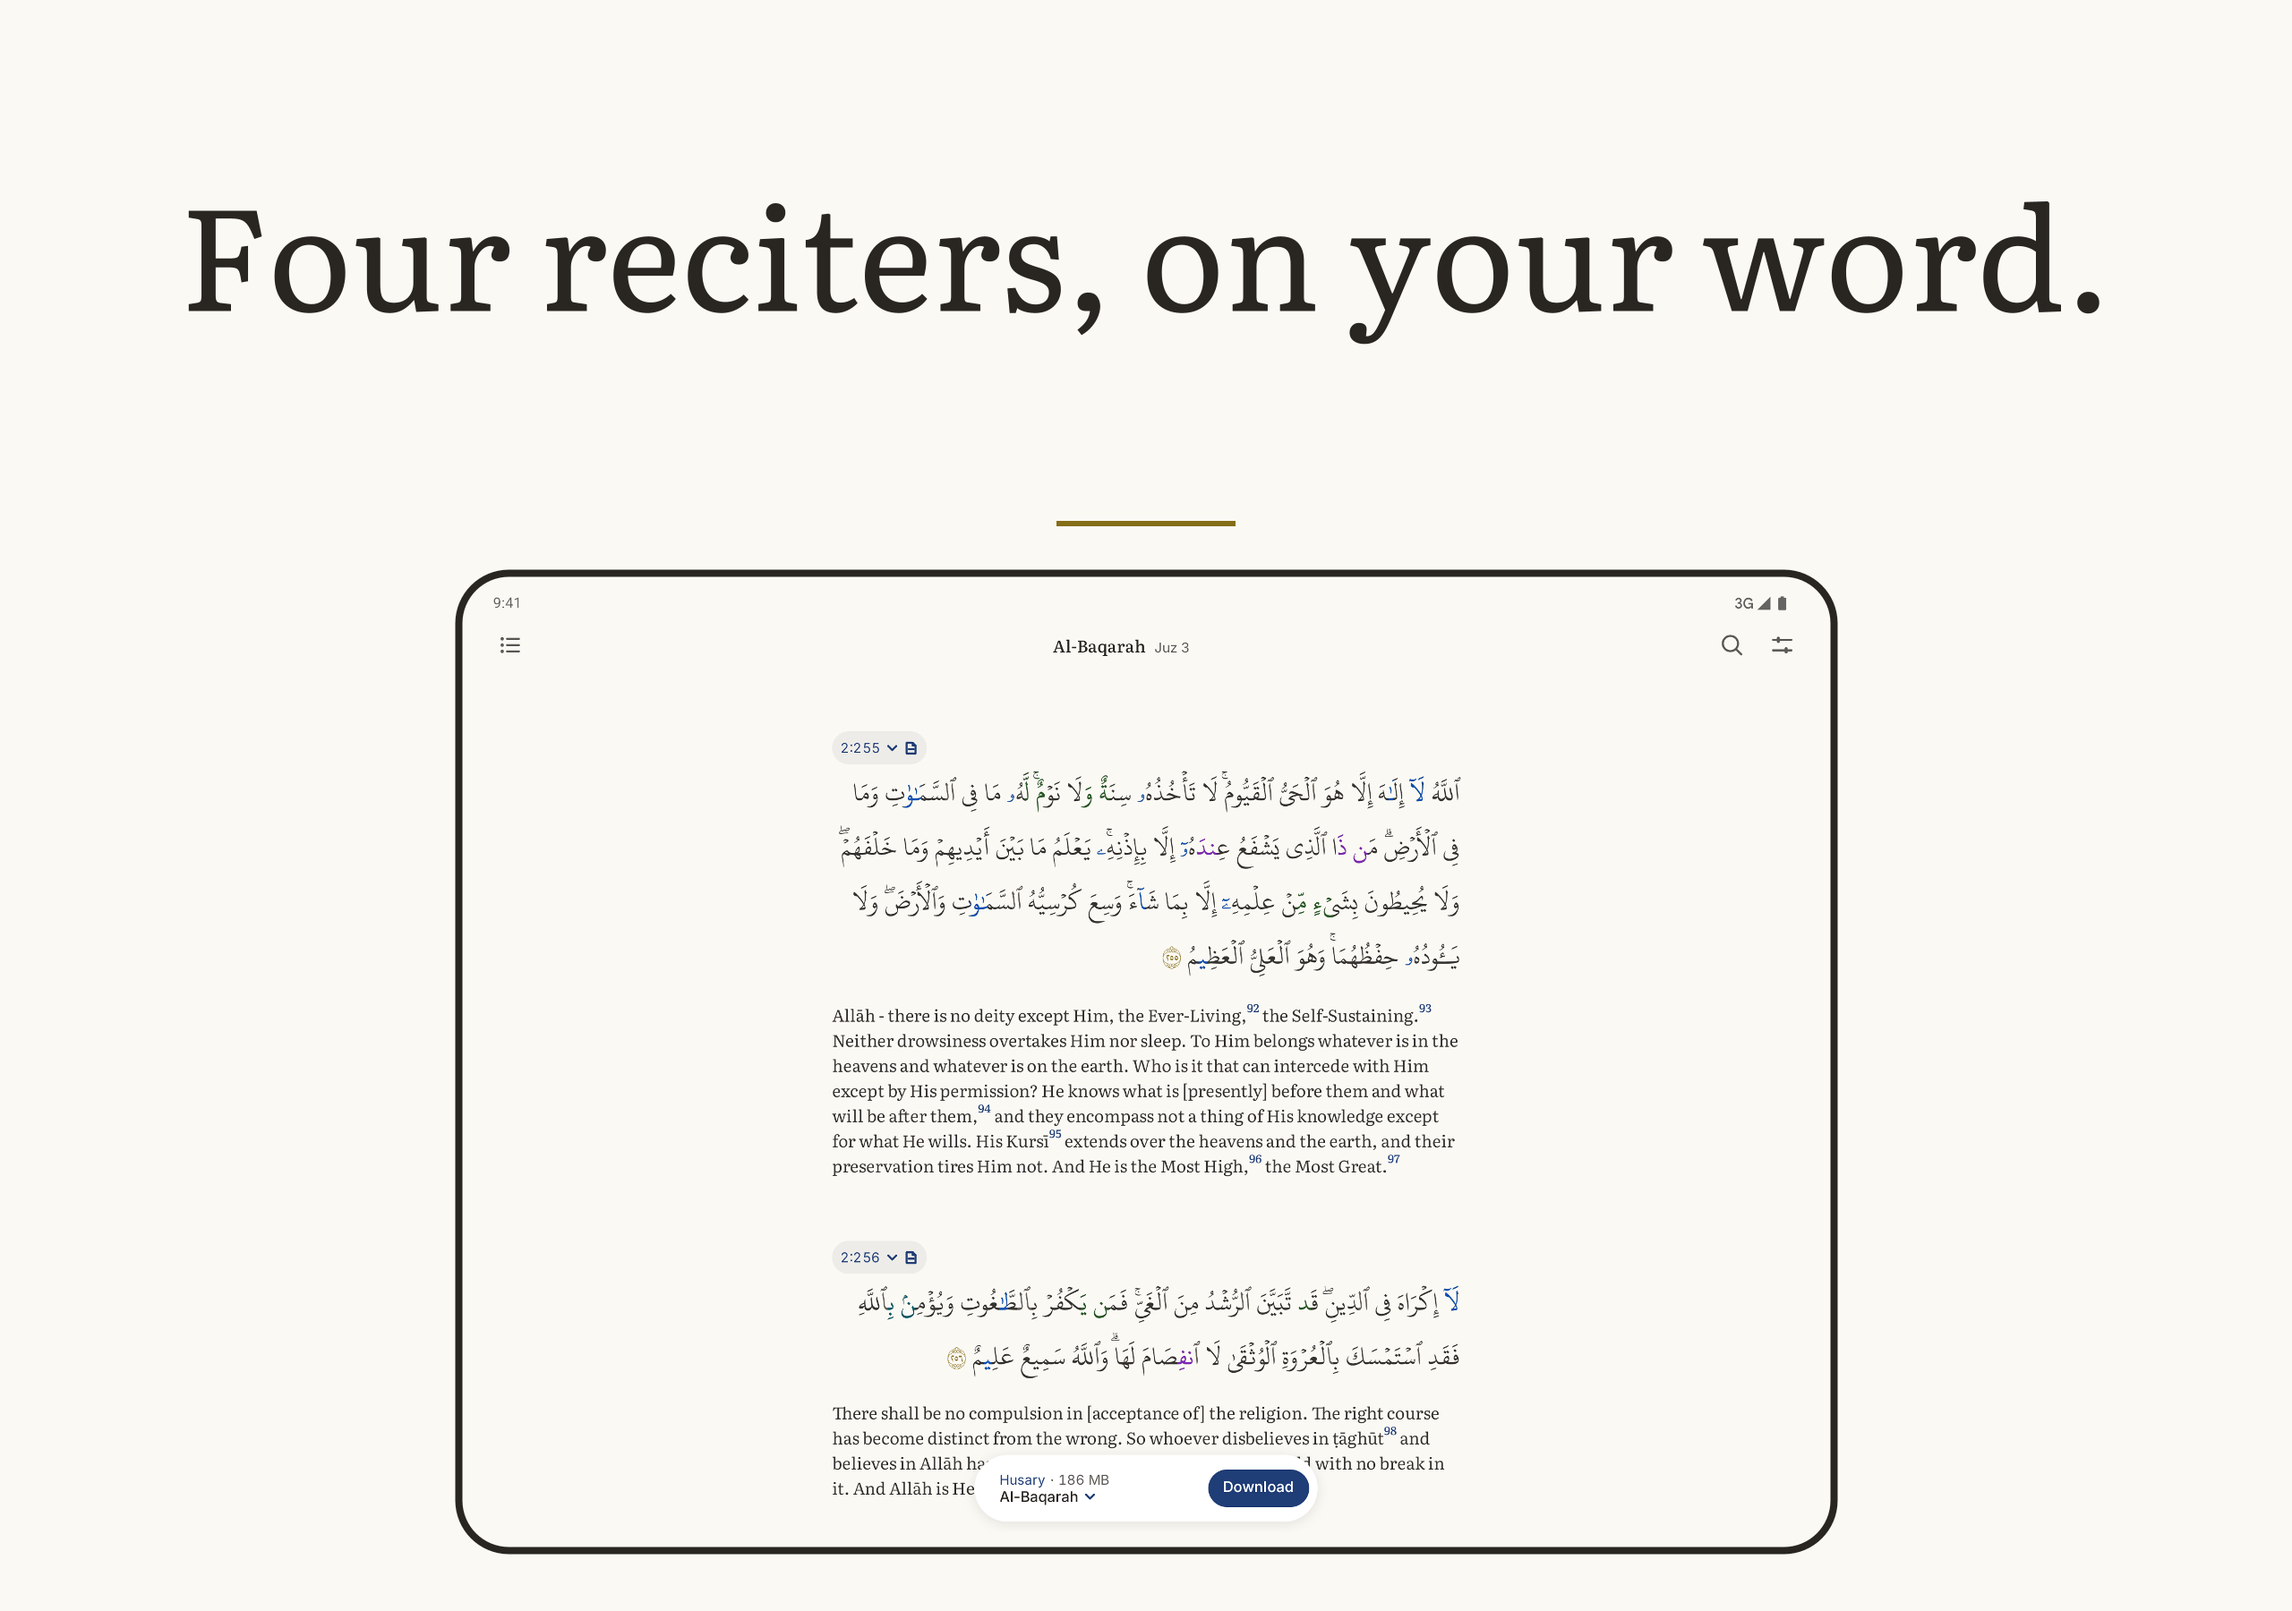
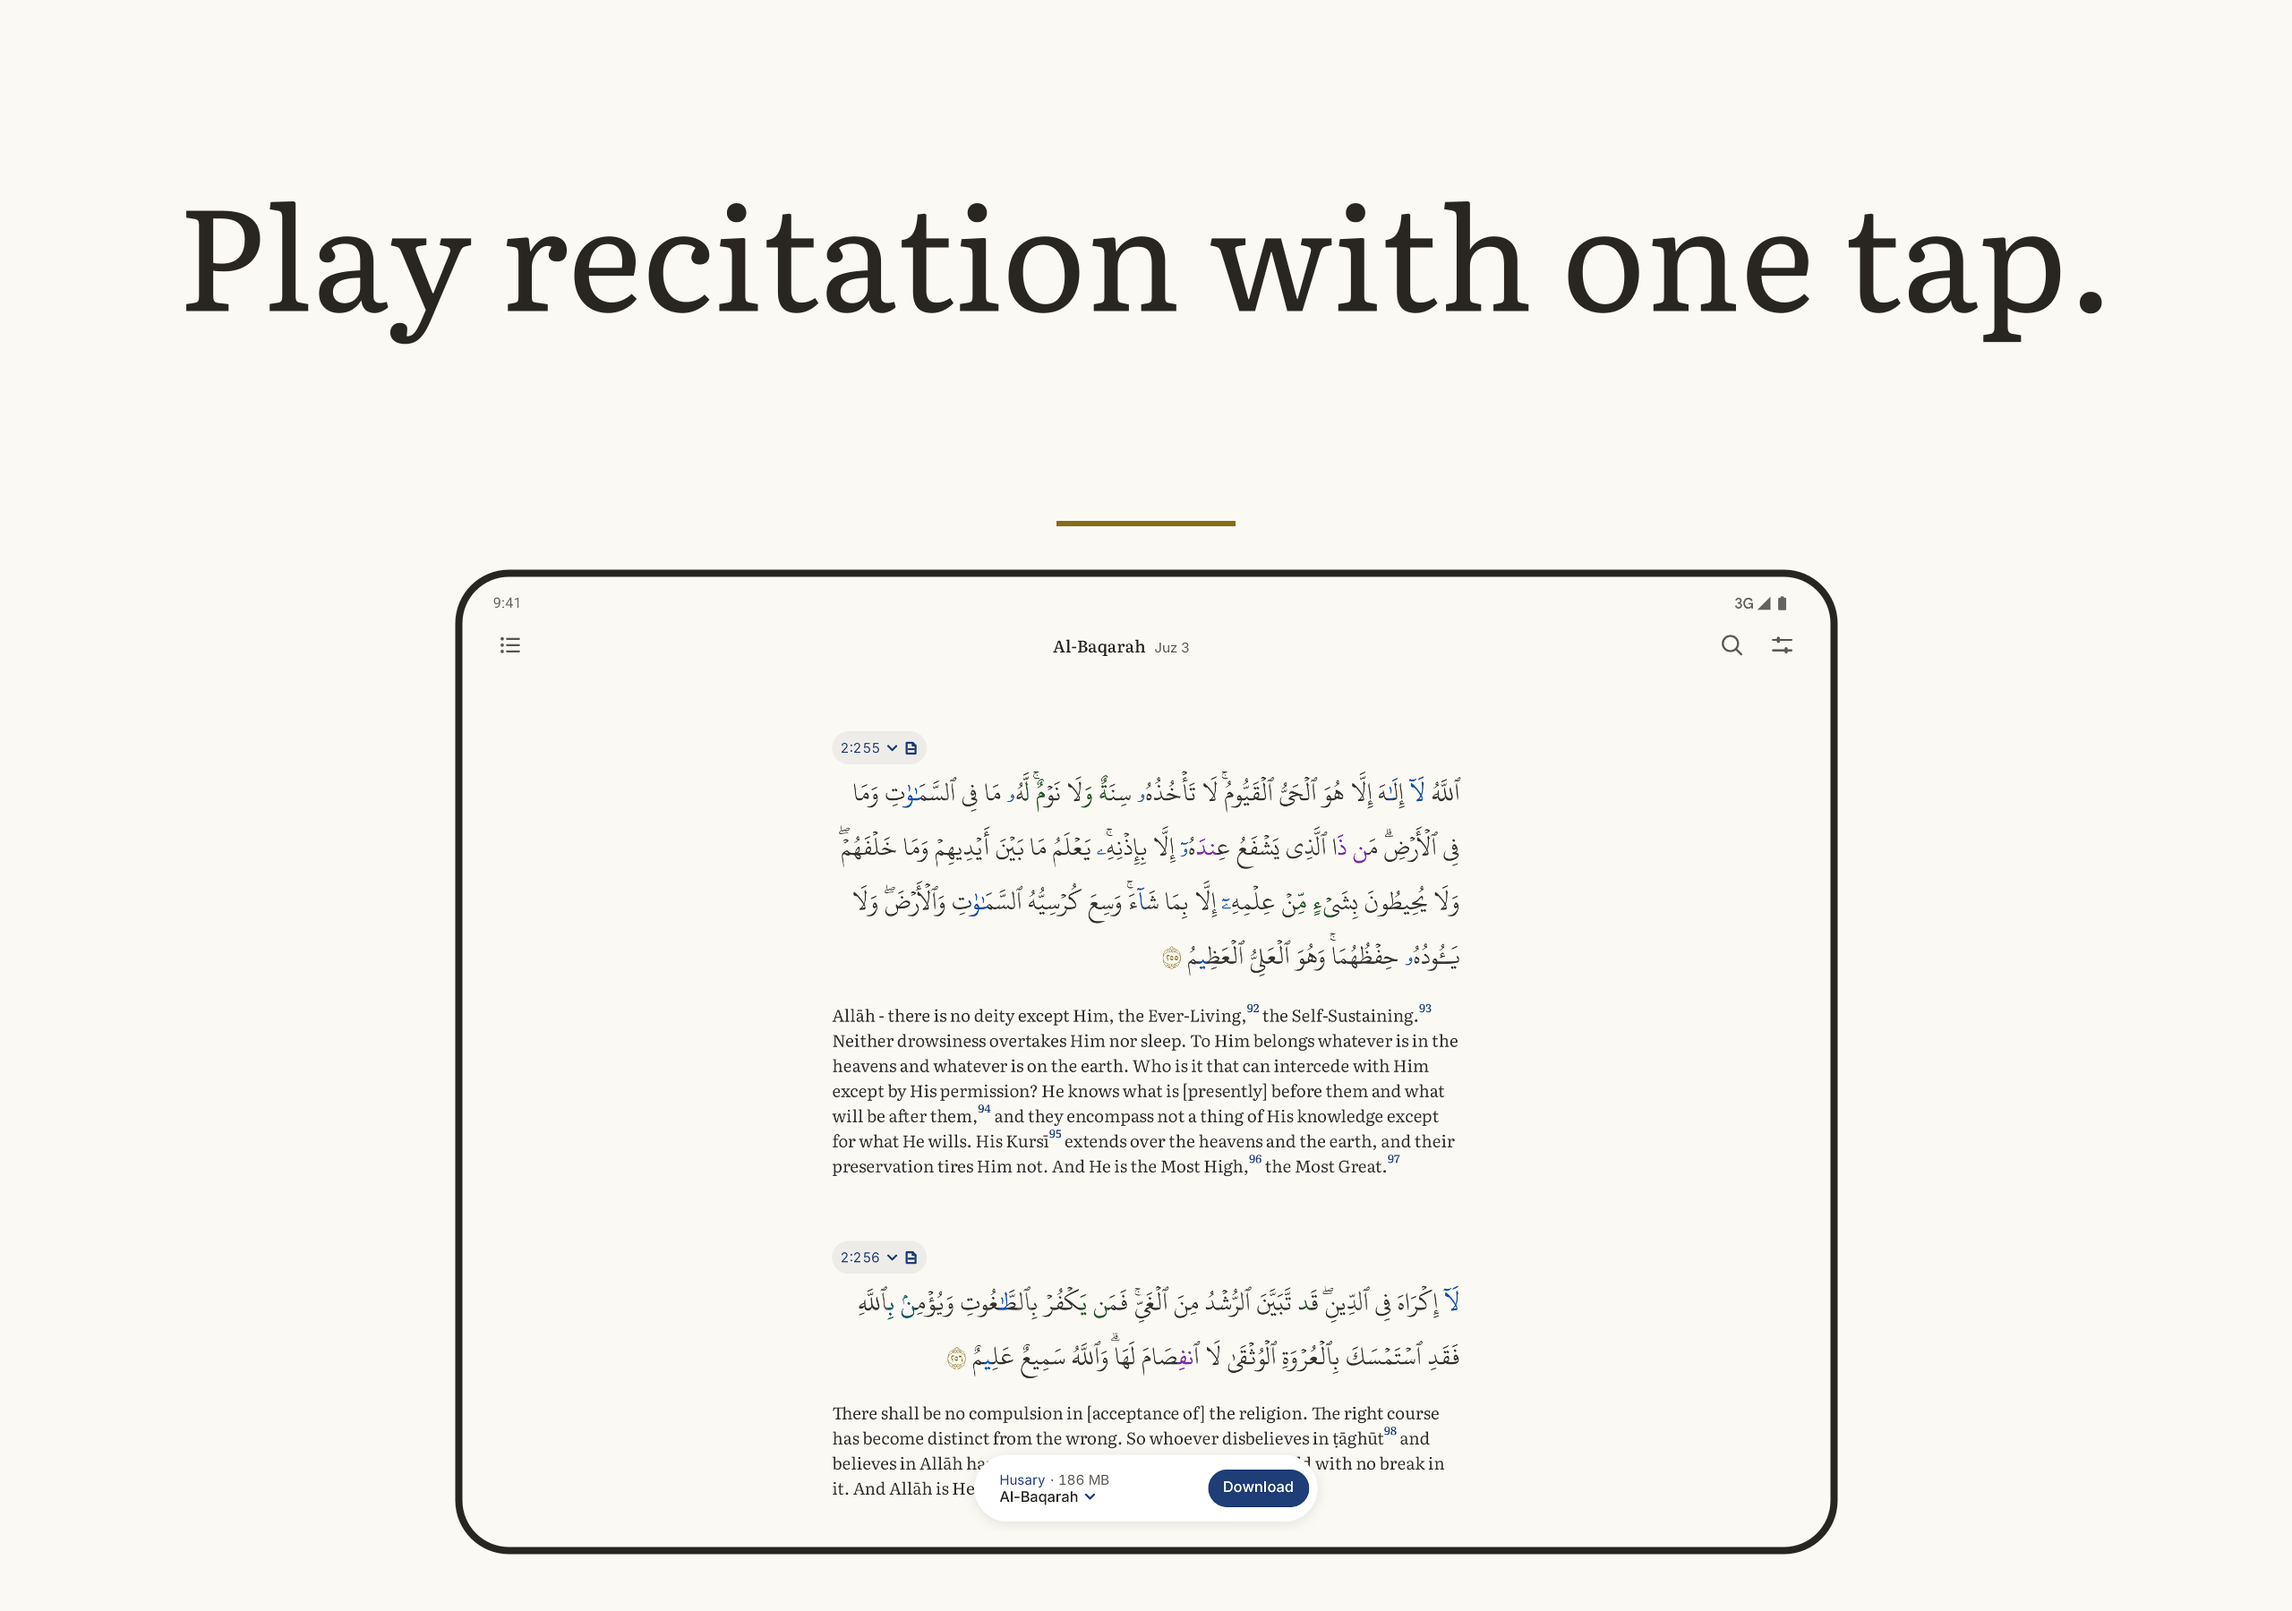
The cards say what the owner hears in them

Changed region(s): [[0.0938, 0.1244, 0.9062, 0.2178]]

diff --git a/tools/src/main/kotlin/io/github/muntasimulhaque/quran/tools/StoreCardSheet.kt b/tools/src/main/kotlin/io/github/muntasimulhaque/quran/tools/StoreCardSheet.kt
@@ -110,13 +110,13 @@ object StoreCardSheet {
      */
     val cards: List<StoreCard> = listOf(
         StoreCard("01-reading", "Built to be read.", "Offline. No ads. No account."),
-        StoreCard("02-tafsir", "Ibn Kathir, a tap away.", null),
-        StoreCard("03-search", "Type kahf 10, land on the verse.", null),
-        StoreCard("04-saved", "Your notes live under the verses.", null),
-        StoreCard("05-tajweed", "Seven colors, each explained.", null),
+        StoreCard("02-tafsir", "Tafsir, a tap away.", null),
+        StoreCard("03-search", "Go to any ayah directly.", null),
+        StoreCard("04-saved", "Save ayah and take notes.", null),
+        StoreCard("05-tajweed", "Tajweed colors with rules.", null),
         StoreCard("06-dark-reading", "The same page, gentle at night.", null),
-        StoreCard("07-share-card", "The verse as one image.", null),
-        StoreCard("08-listen-offer", "Four reciters, on your word.", null),
+        StoreCard("07-share-card", "Share any ayah as screenshot.", null),
+        StoreCard("08-listen-offer", "Play recitation with one tap.", null),
     )
 
     /**

diff --git a/play-store/listing.md b/play-store/listing.md
@@ -216,19 +216,19 @@ What each set shows, in order:
    doors. The card says "Built to be read." with "Offline. No ads. No account."
    under it.
 2. The tafsir open on its passage, with the source line above it. The card says
-   "Ibn Kathir, a tap away."
+   "Tafsir, a tap away."
 3. Search reading a reference ("kahf 10"), with the places it reads behind the
-   "Search in" door. The card says "Type kahf 10, land on the verse."
+   "Search in" door. The card says "Go to any ayah directly."
 4. Saved: the reader's own notes under the places they were written on. The card
-   says "Your notes live under the verses."
+   says "Save ayah and take notes."
 5. The Tajweed page: seven color families, each with a word from the reading and
-   its rules. The card says "Seven colors, each explained."
+   its rules. The card says "Tajweed colors with rules."
 6. The reading at night. The card says "The same page, gentle at night."
 7. The share card the app hands out, with Share image as its solid answer. The
-   card says "The verse as one image."
+   card says "Share any ayah as screenshot."
 8. The recitation's own offer: the one-row capsule naming the reciter and its
    size over the surah before a tap, the block a door to the voice list, with
-   Download at its end. The card says "Four reciters, on your word."
+   Download at its end. The card says "Play recitation with one tap."
 
 The last frame is last on purpose. The offer stays on the reading until the
 reader answers it (Download, the page, or Back), so every frame that wants a
